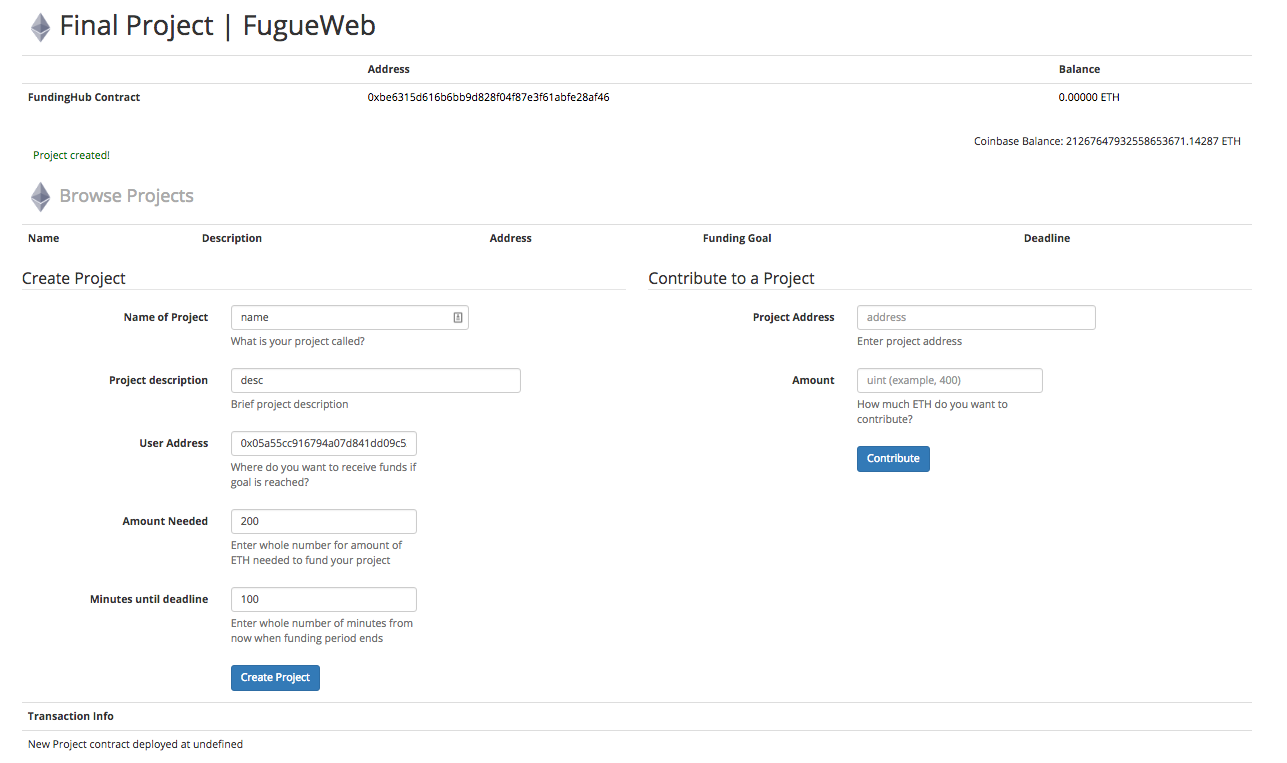
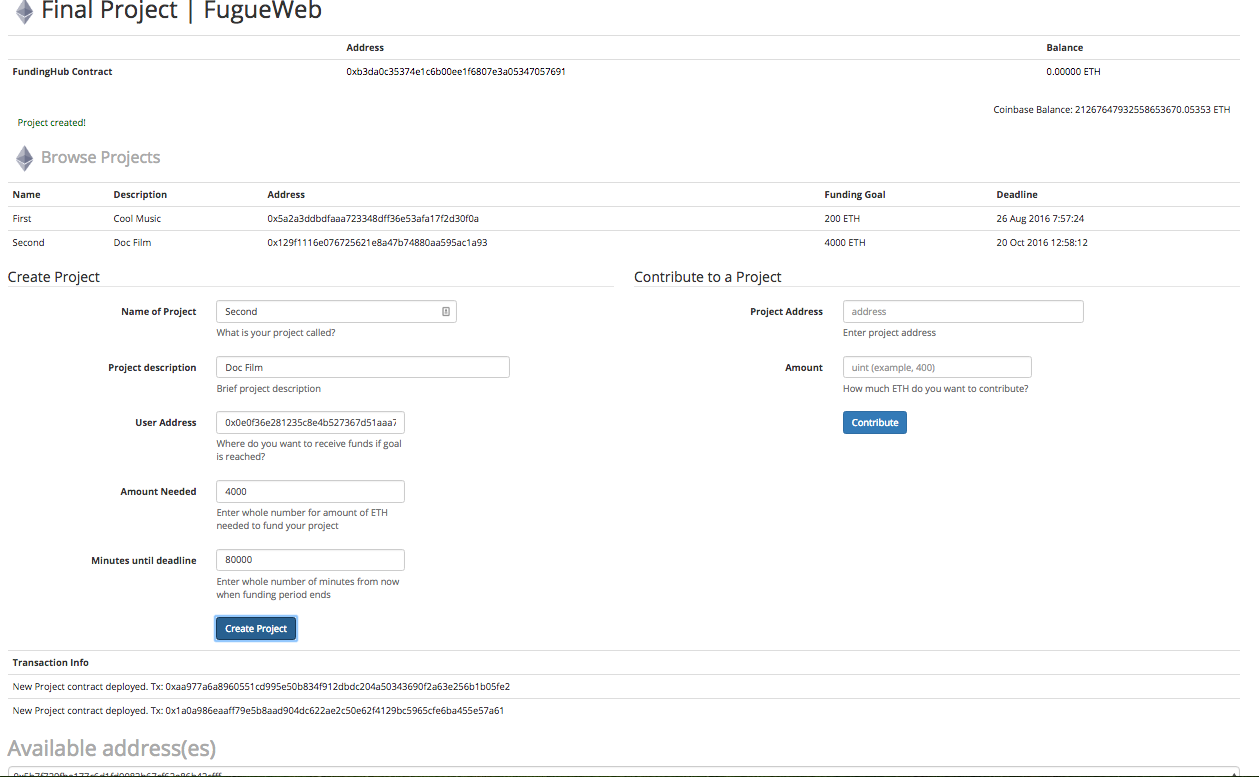
added event and contribute functionality

diff --git a/app/javascripts/app.js b/app/javascripts/app.js
@@ -2,6 +2,8 @@ var accounts;
 var account;
 var balance;
 var fh;
+var projectsArray = [];
+var projectIndex = 0;
 
 function setStatus(message) {
   var status = document.getElementById("status");
@@ -24,22 +26,39 @@ function createProject(){
 
   fh.createProject(projectName, projectDescription, projectUserAddr, projectAmountNeeded, projectMinutes, {from:accounts[0]}).then(function(instance){
     console.log(instance);
-    logTx("New Project contract deployed at " + instance.address);
+    logTx("New Project contract deployed. Tx: " + instance);
     setStatus("Project created!");
-    updateProjectList();
+    updateProjectList(projectIndex);
+    projectIndex++;
   }).catch(function(error){
     console.log(error);
   });
 
-  /*Project.new(projectName, projectDescription, projectUserAddr, projectAmountNeeded, projectMinutes, {from:accounts[0]}).then(function(instance){
-    console.log(instance);
-    logTx("New Project contract deployed at " + instance.address);
-    setStatus("Project created!");
-    updateProjectList();
-  }).catch(function(error){
-    console.log(error);
-  });*/
+  // Project.new(projectName, projectDescription, projectUserAddr, projectAmountNeeded, projectMinutes, {from:accounts[0]}).then(function(instance){
+  //   console.log(instance);
+  //   logTx("New Project contract deployed at " + instance.address);
+  //   setStatus("Project created!");
+  //   updateProjectList();
+  // }).catch(function(error){
+  //   console.log(error);
+  // });
 }
+
+function updateProjectList(index){
+  var tableData = "<tr><td>" + projectsArray[index].pName + "</td><td>" + projectsArray[index].pDesc + "</td><td>" + projectsArray[index].pAddr + "</td><td>" + projectsArray[index].pGoal.toNumber() + " ETH</td><td>" + timeConverter(projectsArray[index].pDeadline.toNumber()) + "</td></tr>";
+  document.getElementById("browse-projects-table").innerHTML += tableData;
+}
+
+// function catchEvent(){
+//   var fh = FundingHub.deployed();
+//   var eProjectCreated = fh.ProjectCreated();
+//   transfers.watch(function(error, result) {
+//     // This will catch all Transfer events, regardless of how they originated.
+//     if (error == null) {
+//       console.log(result.args);
+//     }
+//   }
+// }
 
 function contribute(){
   var contributeAddr = document.getElementById("contributeAddrInput").value;
@@ -50,14 +69,9 @@ function contribute(){
     console.log(result);
     logTx("Contribution to " + contributeAddr + " sent. Tx: " + result);
     setStatus("Contribution sent!");
-    updateProjectList();
   }).catch(function(error){
     console.log(error);
   });
-}
-
-function updateProjectList(){
-  console.log('update project list');
 }
 
 function timeConverter(UNIX_timestamp){
@@ -113,6 +127,31 @@ window.onload = function() {
 
     setAddress();
     refreshBalances();
+
+    var eProjectCreated = fh.ProjectCreated();
+    eProjectCreated.watch(function(error, result) {
+      // This will catch all events, regardless of how they originated.
+      if (error == null) {
+        //console.log(result.args);
+        projectsArray.push(result.args);
+        console.log(projectsArray);
+        updateProjectList(projectIndex);
+        projectIndex++;
+      }
+    });
+
+    var eContribution = fh.ProjectContributedTo();
+    eContribution.watch(function(error, result) {
+      // This will catch all events, regardless of how they originated.
+      if (error == null) {
+        console.log(result.args);
+        var text = "Project " + result.args.pcAddr + " received " + result.args.pcAmount + " ETH!";
+        logTx(text);
+        var audio = new Audio('../images/ca-ching.mp3');
+        audio.play();
+      }
+    });
+
   });
 
   web3.eth.getTransactionReceiptMined = function (txnHash, interval) {

diff --git a/test/FundingHub.js b/test/FundingHub.js
@@ -1,0 +1,22 @@
+contract('FundingHub', function (accounts) {
+    // it.only('should create a project', function (done) {
+    it('should refund a project', function () {
+        var fh = FundingHub.deployed();
+        var p;
+
+        fh.createProject("TestName", "TestDesc", accounts[0], 100, 5, {from:accounts[0]}).then(function(instance){
+            var eProjectCreated = fh.ProjectCreated();
+            var projectAddr = eProjectCreated.options.address;
+            p = Project.at(projectAddr);
+            console.log(p.address);
+
+            p.refund(50, {from:accounts[0]}).then(function(instance){
+                console.log(instance);
+            }).catch(function(error){
+                console.log(error);
+            });
+
+        });
+
+    });
+});

diff --git a/migrations/2_deploy_contracts.js b/migrations/2_deploy_contracts.js
@@ -1,4 +1,21 @@
 module.exports = function(deployer) {
   deployer.deploy(FundingHub);
+  deployer.autolink();
   deployer.deploy(Project);
 };
+
+// module.exports = function (deployer) {
+//     var fundingHub;
+//     deployer.then(function () {
+//         console.log('Deploying FundingHub...');
+//         return FundingHub.new("FugueWeb FH");
+//     }).then(function (result) {
+//     	deployer.autolink();
+//         console.log('FundingHub: ', result.address);
+//         fundingHub = result;
+//         console.log('Deploying Project...');
+//         return result.createProject("myDefaultName", "myDefaultDesc", result.address, 400, 200);
+//     }).then(function (tx) {
+//         console.log('createProject tx: ', tx);
+//     });
+// };

diff --git a/app/index.html b/app/index.html
@@ -154,7 +154,6 @@
           </div>
       </div>
 
-
     <table class="table table-fluid" id="transaction-table">
       <tr>
         <th>Transaction Info</th>
@@ -172,5 +171,8 @@
   </div>
   <!-- Latest compiled and minified JavaScript -->
 <!-- <script src="https://maxcdn.bootstrapcdn.com/bootstrap/3.3.6/js/bootstrap.min.js" integrity="sha384-0mSbJDEHialfmuBBQP6A4Qrprq5OVfW37PRR3j5ELqxss1yVqOtnepnHVP9aJ7xS" crossorigin="anonymous"></script> -->
+  <!-- <audio style="visibility:hidden;" id="ca-ching">
+    <source src=".images/ca-ching.mp3" type="audio/ogg">
+  </audio> -->
 </body>
 </html>

diff --git a/README.md b/README.md
@@ -15,7 +15,13 @@ Decentralized crowd funding dApp with front end. Two contracts deployed (`Fundin
 * `truffle serve`
 
 ## Interact with the dApp
+* Create a project by filling out the fields (name, description, owner address, funding goal, and deadline). Time (in minutes) is converted to human readable date. Funding goal is in Ether, not Wei. Once project is created, the tx is logged in the "Transaction Info" table and the project is added to the "Browse Projects" table. Add as many projects as you want and they'll be added to the list.
+* Contribute to a project by choosing one of the available project addresses and selecting an amount in Ether. A "ca-ching" noise will sound when you contribute and the tx is logged.
+* All available address from the running RPC will display at the bottom and in the console.
 
+## Test
+
+* `truffle test` creates a project and checks the refund function
 
 ## Screenshot
 
@@ -23,6 +29,6 @@ Decentralized crowd funding dApp with front end. Two contracts deployed (`Fundin
 
 ## Issues / ToDo
 
-* Improve functionality
+* Improve overall functionality, especially taking advantage of `Events()` and more of the `Project` capabilities.
 
 
